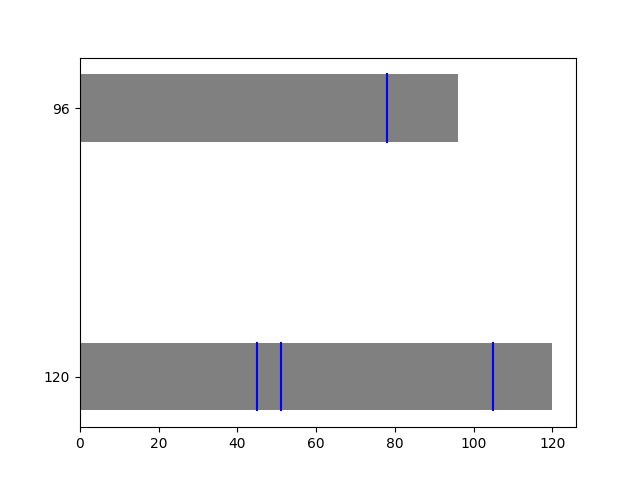
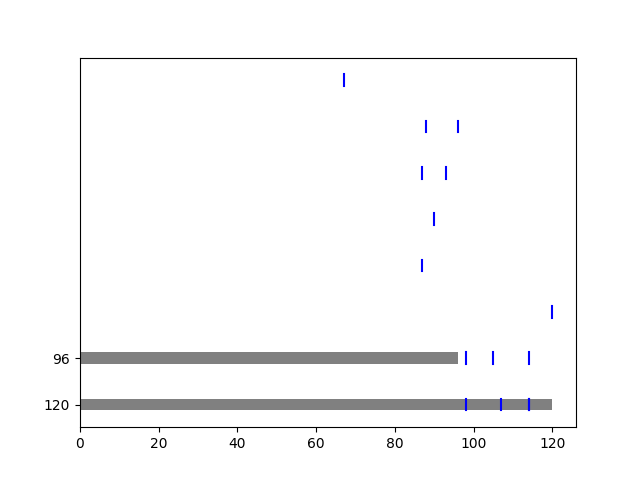
fixed exception handling

Changed region(s): [[0.0625, 0.6875, 0.875, 0.875], [0.0625, 0.1562, 0.7188, 0.3125]]

diff --git a/board_cutter_2_knap.py b/board_cutter_2_knap.py
@@ -21,14 +21,14 @@ def permute_lumber_sizes(lumber, cut_pieces):
 
     test_boards = []
 
-    print(total_linear )
+    print("-------------------TOTAL LINEAR---", total_linear )
     for i in lumber_permutes:
         if sum(i) >= total_linear and sum(i) < total_linear * 1.5:
             test_boards.append(i)
 
     return test_boards
 
-def input_cut_pieces():
+def input_cut_pieces(): #for testing
     return [45, 45, 45, 45, 66, 66, 66, 66, 66, 66, 66, 66, 33, 33, 33, 33, 33, 33, 33, 33, 33, 33, 33, 33, 12, 11, 55, 29, 50, 49]
 
 def create_data_model(cut_pieces, lumber_sizes):
@@ -155,12 +155,13 @@ def optimize(data, solver):
         
         print("GROUP DF........\n", grouped_df)
         ####################
-
+        print("total value-----------------------> ", total_value)
+        print("lengthe wegiths -------------", len(data["weights"]))
         if total_value == len(data["weights"]):
             
             return grouped_df
         else: 
-            return None
+            return grouped_df
     else:
         print("The problem does not have an optimal solution.")
 
@@ -171,12 +172,26 @@ def calculate(lumber, cut_pieces):
     found_solution = None
 
     for board_permute in test_boards:
-        if found_solution is None:
+        solver = create_solver()
+        data = create_data_model(cut_pieces, board_permute)
+        found_solution = optimize(data, solver)
+        print("---- ------ ----\n", found_solution)
+        print("sum: ", sum(sum(sublist) for sublist in found_solution['cuts']))
+        print("len: ", len(cut_pieces))
+
+        if found_solution is not None and sum(sum(sublist) for sublist in found_solution['cuts']) == sum(cut_pieces):   
+            break
+
+    
+
+
+        
+        """if found_solution is None:
             data = create_data_model(cut_pieces, board_permute)
             solver = create_solver()
             found_solution = optimize(data, solver)
         else:
-            break
+            break"""
 
     #print("solved -------------------------\n", found_solution)
     return found_solution

diff --git a/website/auth.py b/website/auth.py
@@ -42,7 +42,6 @@ def calculator():
             return render_template("calculator.html", table="", boolean=False)
         else:
             size_1 = int(request.form.get("raw_lumber_length_1"))
-
         size_2_input = request.form.get("raw_lumber_length_2")  
         if size_2_input is None or size_2_input.strip() == "":
             size_2 = 0
@@ -52,9 +51,6 @@ def calculator():
         elif size_2_input.isdigit() == True: 
             size_2 = int(size_2_input)
             
-        #ADD SIZE 3 EXCEPTION HANDLING
-        #size_3 = int(request.form.get("raw_lumber_length_3"))
-        #---- SIZE 3 THROWING ERROR
         size_3_input = request.form.get("raw_lumber_length_3")  
         if size_3_input is None or size_3_input.strip() == "":
             size_3 = 0
@@ -66,15 +62,19 @@ def calculator():
 
 
         piece_list = convert_list((request.form.get("piece_list")).replace(" ", ",").split(","))
-        print("SUBMIT WAS DEPRESSED -- let's cheer it up")
+        print("-----------SUBMIT WAS DEPRESSED -- let's cheer it up")
         print(type(piece_list), piece_list, type(piece_list[0]))
         print(piece_list)
         lumber = [12*size_1, 12*size_2, 12*size_3]
-        
+        for piece in piece_list:
+            if piece > max(size_1*12, size_2*12, size_3*12):
+                flash('One of your cut pieces is too darn big for the lumber sizes', 'error')
+                return render_template("calculator.html", table="", boolean=False)
         solution_df = calculate(lumber, piece_list)
-        print(solution_df)
+
+        print("SOLLLLUTION!!!!!  -----------------> ", solution_df)
         table = solution_df.to_html()
-        make_visual(solution_df)
+        make_visual(solution_df) ####uncoment for VISUALS!
         print("Lumber options = ", lumber, "Piece List = ", piece_list)
         print()
         #---CHECK---convert piece list 

diff --git a/make_visual.py b/make_visual.py
@@ -42,6 +42,6 @@ def make_visual(df):
         for value in values:
             plt.plot([value, value], [i - relative_height/2, i + relative_height/2], color='blue')
 
-    #plt.savefig('website/static/visual.png')
+    plt.savefig('website/static/visual.png')
 
-    plt.show()
+    
